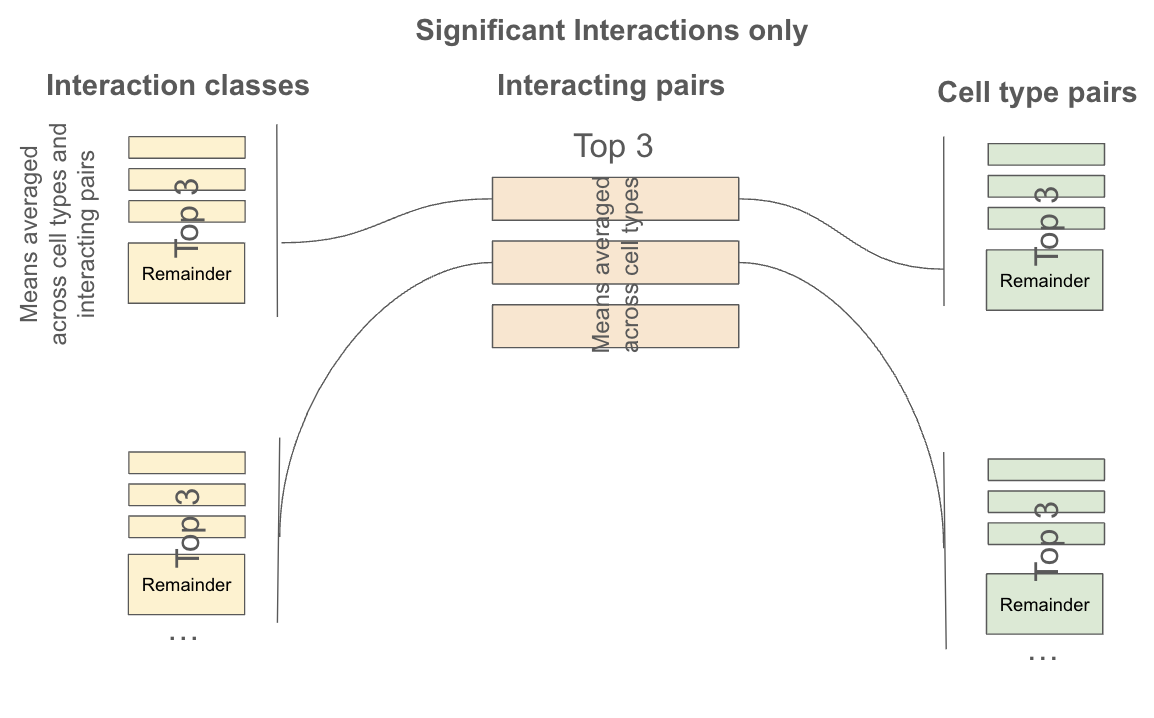
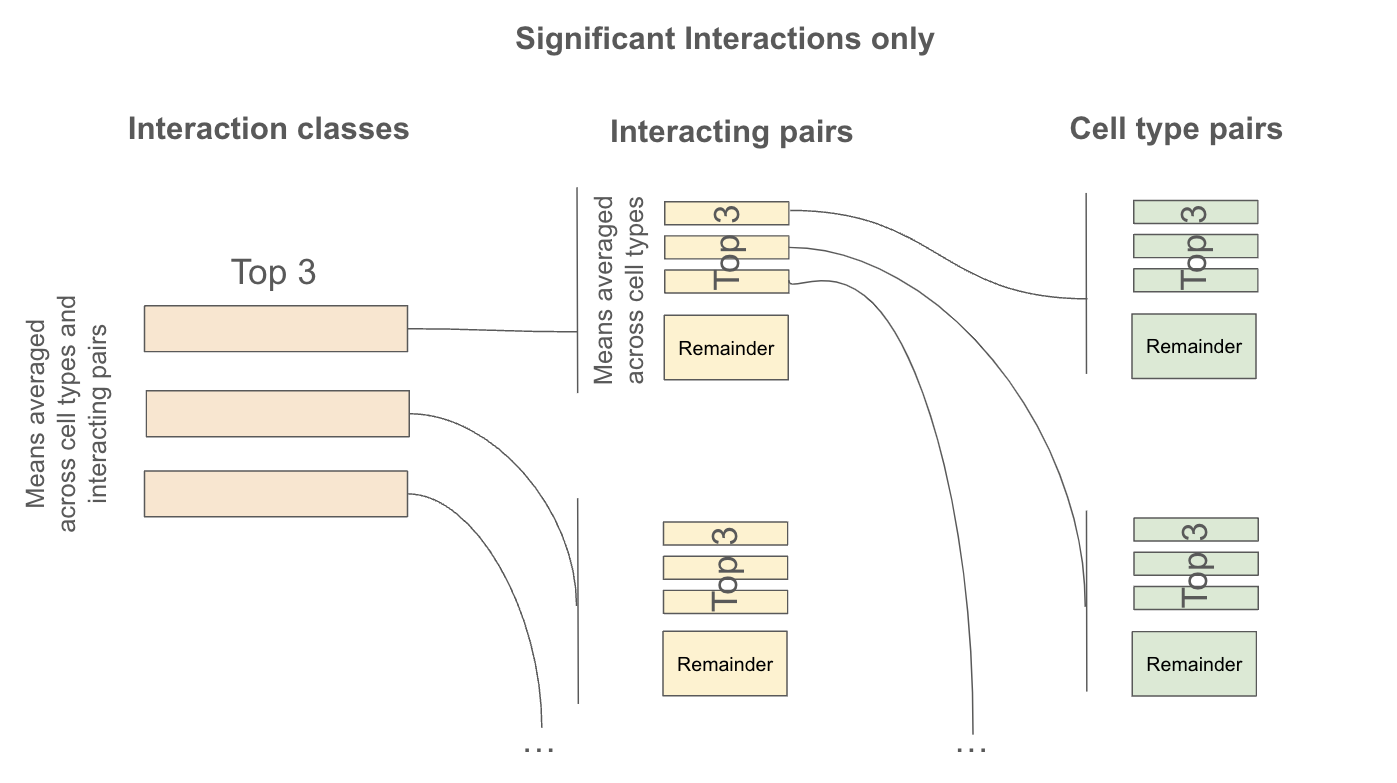
Provided help buttons for all plots, indicating what the plot shows and what data it uses

diff --git a/public/viz.html b/public/viz.html
@@ -164,6 +164,10 @@ function refreshCCISummaryChordPlots() {
                     <button id="ctcomp_save_button" style="text-transform: none;" class="btn-floating waves-effect waves-light btn-small z-depth-2" onclick="downloadAsPDF('ctcomp','ctcomp_title','ctcomp_header')">
                         <i class="material-icons left tooltipped" data-tooltip="Download plot in PDF format">file_download</i>
                     </button>
+                      <span style="text-transform: none;" class="btn-floating waves-effect waves-light btn-small z-depth-2">
+                        <i id="celltype_composition_help" class="material-icons left tooltipped"
+                           data-tooltip="The plot shows the mapping between different cell type characteristics specified in the file under the configuration key: 'celltype_composition'">info_outline</i>
+                      </span>
                       <div id="ctcomp_header" hidden></div>
                       <div id="ctcomp" style="width:1500px;height:700px"></div>
                   </div>
@@ -179,6 +183,10 @@ function refreshCCISummaryChordPlots() {
                     <button id="spme_save_button" style="text-transform: none;" class="btn-floating waves-effect waves-light btn-small z-depth-2" onclick="downloadAsPDF('spme','spme_title','spme_header')">
                         <i class="material-icons left tooltipped" data-tooltip="Download plot in PDF format">file_download</i>
                     </button>
+                      <span style="text-transform: none;" class="btn-floating waves-effect waves-light btn-small z-depth-2">
+                        <i id="spme_help" class="material-icons left tooltipped"
+                           data-tooltip="The plot shows the mapping between cell types and microenvironments specified in the file under the configuration key: 'microenvironments'">info_outline</i>
+                      </span>
                     <div id="spme_header" hidden>Cell Type - Microenvironment</div>
                       <div id="spme" style="width:800px"></div>
                   </div>
@@ -280,6 +288,10 @@ function refreshCCISummaryChordPlots() {
                           <button style="text-transform: none;" class="btn-floating waves-effect waves-light btn-small z-depth-2" onclick="downloadAsPDF('sge','sge_title','sge_header')">
                              <i class="material-icons left tooltipped" data-tooltip="Download plot in PDF format">file_download</i>
                           </button>
+                          <span style="text-transform: none;" class="btn-floating waves-effect waves-light btn-small z-depth-2">
+                            <i id="sge_help" class="material-icons left tooltipped"
+                               data-tooltip="The plot shows mean expressions of the genes/complexes and cell types/microenvironments selected in the filter. The data comes from files specified in the configuration keys: 'deconvoluted_result', 'deconvoluted_percents' and 'microenvironments'.">info_outline</i>
+                          </span>
                           <div id="sge_header" hidden></div>
                             <div id="sge" style="width:1000px"></div>
                         </div>
@@ -302,12 +314,19 @@ function refreshCCISummaryChordPlots() {
                     </button>
                     <span style="text-transform: none;" class="btn-floating waves-effect waves-light btn-small z-depth-2">
                         <i id="specificity_ataglance_help" class="material-icons left tooltipped"
-                           data-tooltip="Mouse over a node in the plot below to see the averaged means for each of the edges connected to that node.">info_outline</i>
+                           data-tooltip="This plot helps to highlight interactions that may be specific to (groups of) cell type pairs.
+                           <p />It shows the top 3 interaction classes (ICs, by average expression across all cell types and interacting pairs),
+                           <br>and for each IC the top 3 interacting pairs plus the reminder (IPs, by average expression across all cell types),
+                           <br>and for each IP the top 3 cell types plus the reminder.
+                           <br>The edge thickness corresponds to the mean expression (in the case of the reminders, aggregated across all the
+                           constituents).
+                           <br>The data comes from files specified in the configuration keys: 'analysis_means' and 'relevant_interactions'.
+                           <p />Mouse over a node in the plot below to see the averaged means for each of the edges connected to that node.">info_outline</i>
                     </span>
                       <div id="cci_specificity_header" class="center"><img src="img/cci_specificity_legend.png" width="50%" height="50%" alt="Cell-cell Communication Specificity - At at glance - legend"></img></div>
-                      <div id="cci_specificity_legend" class="center">Plot interpretation guidance:
+                      <div id="cci_specificity_legend" class="center">Note:
                           Higher averaged means across fewer interacting/cell type pairs may be indicative of a more
-                      specific activity of the corresponding interaction class/pathway.</div>
+                     specific activity of the corresponding interacting pair.</div>
                       <div id="cci_specificity" style="width:2000px;height:1200px"></div>
                   </div>
                 </div>
@@ -398,6 +417,12 @@ function refreshCCISummaryChordPlots() {
                         <button style="text-transform: none;" class="btn-floating waves-effect waves-light btn-small z-depth-2" onclick="downloadAsPDF('cci0','cci_summary_title','cci0_header')">
                            <i class="material-icons left tooltipped" data-tooltip="Download plot in PDF format">file_download</i>
                         </button>
+                          <span style="text-transform: none;" class="btn-floating waves-effect waves-light btn-small z-depth-2">
+                            <i id="cci_summary_all_celltypes_help" class="material-icons left tooltipped"
+                           data-tooltip="The plot shows the number of significant interactions between each cell type pair.
+                           <br>The data comes from files specified in the configuration keys: 'analysis_means', 'relevant_interactions'
+                           (and 'microenvironments' and 'interaction_scores' if applicable)">info_outline</i>
+                          </span>
                         <div id="cci0_header" hidden></div>
                           <div id="cci0" style="width:1000px"></div>
                           <div id="cci0_chord" style="width:1000px" hidden></div>
@@ -415,6 +440,12 @@ function refreshCCISummaryChordPlots() {
                         <button style="text-transform: none;" class="btn-floating waves-effect waves-light btn-small z-depth-2" onclick="downloadAsPDF('cci1','cci_summary_title','cci1_header')">
                            <i class="material-icons left tooltipped" data-tooltip="Download plot in PDF format">file_download</i>
                         </button>
+                          <span style="text-transform: none;" class="btn-floating waves-effect waves-light btn-small z-depth-2">
+                            <i id="cci_summary_me1_help" class="material-icons left tooltipped"
+                           data-tooltip="The plot shows the number of significant interactions between each cell type pair in this microenviroment.
+                           <br>The data comes from files specified in the configuration keys: 'analysis_means', 'relevant_interactions', 'microenvironments'
+                           (and 'interaction_scores' if applicable)">info_outline</i>
+                          </span>
                         <div id="cci1_header" hidden></div>
                           <div id="cci1" style="width:400px"></div>
                           <div id="cci1_chord" style="width:400px" hidden></div>
@@ -430,6 +461,12 @@ function refreshCCISummaryChordPlots() {
                         <button style="text-transform: none;" class="btn-floating waves-effect waves-light btn-small z-depth-2" onclick="downloadAsPDF('cci2','cci_summary_title','cci2_header')">
                            <i class="material-icons left tooltipped" data-tooltip="Download plot in PDF format">file_download</i>
                         </button>
+                          <span style="text-transform: none;" class="btn-floating waves-effect waves-light btn-small z-depth-2">
+                            <i id="cci_summary_me2_help" class="material-icons left tooltipped"
+                           data-tooltip="The plot shows the number of significant interactions between each cell type pair in this microenviroment.
+                           <br>The data comes from files specified in the configuration keys: 'analysis_means', 'relevant_interactions', 'microenvironments'
+                           (and 'interaction_scores' if applicable)">info_outline</i>
+                          </span>
                         <div id="cci2_header" hidden></div>
                           <div id="cci2" style="width:400px"></div>
                           <div id="cci2_chord" style="width:400px" hidden></div>
@@ -445,6 +482,12 @@ function refreshCCISummaryChordPlots() {
                         <button style="text-transform: none;" class="btn-floating waves-effect waves-light btn-small z-depth-2" onclick="downloadAsPDF('cci3','cci_summary_title','cci3_header')">
                            <i class="material-icons left tooltipped" data-tooltip="Download plot in PDF format">file_download</i>
                         </button>
+                          <span style="text-transform: none;" class="btn-floating waves-effect waves-light btn-small z-depth-2">
+                            <i id="cci_summary_me3_help" class="material-icons left tooltipped"
+                           data-tooltip="The plot shows the number of significant interactions between each cell type pair in this microenviroment.
+                           <br>The data comes from files specified in the configuration keys: 'analysis_means', 'relevant_interactions', 'microenvironments'
+                           (and 'interaction_scores' if applicable)">info_outline</i>
+                          </span>
                         <div id="cci3_header" hidden></div>
                           <div id="cci3" style="width:400px"></div>
                           <div id="cci3_chord" style="width:400px" hidden></div>
@@ -463,6 +506,12 @@ function refreshCCISummaryChordPlots() {
                         <button style="text-transform: none;" class="btn-floating waves-effect waves-light btn-small z-depth-2" onclick="downloadAsPDF('cci4','cci_summary_title','cci4_header')">
                            <i class="material-icons left tooltipped" data-tooltip="Download plot in PDF format">file_download</i>
                         </button>
+                          <span style="text-transform: none;" class="btn-floating waves-effect waves-light btn-small z-depth-2">
+                            <i id="cci_summary_me4_help" class="material-icons left tooltipped"
+                           data-tooltip="The plot shows the number of significant interactions between each cell type pair in this microenviroment.
+                           <br>The data comes from files specified in the configuration keys: 'analysis_means', 'relevant_interactions', 'microenvironments'
+                           (and 'interaction_scores' if applicable)">info_outline</i>
+                          </span>
                         <div id="cci4_header" hidden></div>
                           <div id="cci4" style="width:400px"></div>
                           <div id="cci4_chord" style="width:400px" hidden></div>
@@ -478,6 +527,12 @@ function refreshCCISummaryChordPlots() {
                         <button style="text-transform: none;" class="btn-floating waves-effect waves-light btn-small z-depth-2" onclick="downloadAsPDF('cci5','cci_summary_title','cci5_header')">
                            <i class="material-icons left tooltipped" data-tooltip="Download plot in PDF format">file_download</i>
                         </button>
+                          <span style="text-transform: none;" class="btn-floating waves-effect waves-light btn-small z-depth-2">
+                            <i id="cci_summary_me5_help" class="material-icons left tooltipped"
+                           data-tooltip="The plot shows the number of significant interactions between each cell type pair in this microenviroment.
+                           <br>The data comes from files specified in the configuration keys: 'analysis_means', 'relevant_interactions', 'microenvironments'
+                           (and 'interaction_scores' if applicable)">info_outline</i>
+                          </span>
                         <div id="cci5_header" hidden></div>
                           <div id="cci5" style="width:400px"></div>
                           <div id="cci5_chord" style="width:400px" hidden></div>
@@ -493,6 +548,12 @@ function refreshCCISummaryChordPlots() {
                         <button style="text-transform: none;" class="btn-floating waves-effect waves-light btn-small z-depth-2" onclick="downloadAsPDF('cci6','cci_summary_title','cci6_header')">
                            <i class="material-icons left tooltipped" data-tooltip="Download plot in PDF format">file_download</i>
                         </button>
+                          <span style="text-transform: none;" class="btn-floating waves-effect waves-light btn-small z-depth-2">
+                            <i id="cci_summary_me6_help" class="material-icons left tooltipped"
+                           data-tooltip="The plot shows the number of significant interactions between each cell type pair in this microenviroment.
+                           <br>The data comes from files specified in the configuration keys: 'analysis_means', 'relevant_interactions', 'microenvironments'
+                           (and 'interaction_scores' if applicable)">info_outline</i>
+                          </span>
                         <div id="cci6_header" hidden></div>
                           <div id="cci6" style="width:400px"></div>
                           <div id="cci6_chord" style="width:400px" hidden></div>
@@ -510,6 +571,12 @@ function refreshCCISummaryChordPlots() {
                         <button style="text-transform: none;" class="btn-floating waves-effect waves-light btn-small z-depth-2" onclick="downloadAsPDF('cci7','cci_summary_title','cci7_header')">
                            <i class="material-icons left tooltipped" data-tooltip="Download plot in PDF format">file_download</i>
                         </button>
+                          <span style="text-transform: none;" class="btn-floating waves-effect waves-light btn-small z-depth-2">
+                            <i id="cci_summary_me7_help" class="material-icons left tooltipped"
+                           data-tooltip="The plot shows the number of significant interactions between each cell type pair in this microenviroment.
+                           <br>The data comes from files specified in the configuration keys: 'analysis_means', 'relevant_interactions', 'microenvironments'
+                           (and 'interaction_scores' if applicable)">info_outline</i>
+                          </span>
                         <div id="cci7_header" hidden></div>
                           <div id="cci7" style="width:400px"></div>
                           <div id="cci7_chord" style="width:400px" hidden></div>
@@ -525,6 +592,12 @@ function refreshCCISummaryChordPlots() {
                         <button style="text-transform: none;" class="btn-floating waves-effect waves-light btn-small z-depth-2" onclick="downloadAsPDF('cci8','cci_summary_title','cci8_header')">
                            <i class="material-icons left tooltipped" data-tooltip="Download plot in PDF format">file_download</i>
                         </button>
+                          <span style="text-transform: none;" class="btn-floating waves-effect waves-light btn-small z-depth-2">
+                            <i id="cci_summary_me8_help" class="material-icons left tooltipped"
+                           data-tooltip="The plot shows the number of significant interactions between each cell type pair in this microenviroment.
+                           <br>The data comes from files specified in the configuration keys: 'analysis_means', 'relevant_interactions', 'microenvironments'
+                           (and 'interaction_scores' if applicable)">info_outline</i>
+                          </span>
                         <div id="cci8_header" hidden></div>
                           <div id="cci8" style="width:400px"></div>
                           <div id="cci8_chord" style="width:400px" hidden></div>
@@ -540,6 +613,12 @@ function refreshCCISummaryChordPlots() {
                         <button style="text-transform: none;" class="btn-floating waves-effect waves-light btn-small z-depth-2" onclick="downloadAsPDF('cci9','cci_summary_title','cci9_header')">
                            <i class="material-icons left tooltipped" data-tooltip="Download plot in PDF format">file_download</i>
                         </button>
+                          <span style="text-transform: none;" class="btn-floating waves-effect waves-light btn-small z-depth-2">
+                            <i id="cci_summary_me9_help" class="material-icons left tooltipped"
+                           data-tooltip="The plot shows the number of significant interactions between each cell type pair in this microenviroment.
+                           <br>The data comes from files specified in the configuration keys: 'analysis_means', 'relevant_interactions', 'microenvironments'
+                           (and 'interaction_scores' if applicable)">info_outline</i>
+                          </span>
                         <div id="cci9_header" hidden></div>
                           <div id="cci9" style="width:400px"></div>
                           <div id="cci9_chord" style="width:400px" hidden></div>
@@ -685,7 +764,11 @@ function refreshCCISummaryChordPlots() {
                            <i class="material-icons left tooltipped" data-tooltip="Download plot in PDF format">file_download</i>
                       </button>
                      <span style="text-transform: none;" class="btn-floating waves-effect waves-light btn-small z-depth-2">
-                           <i id="interacting_pair_help" class="material-icons left tooltipped" data-tooltip="">info_outline</i>
+                           <i id="interacting_pair_help" class="material-icons left tooltipped" data-tooltip=
+                                   "This plot shows significant interactions across the selected cell type/interacting pairs.
+                                   <br>The data comes from files specified in the configuration keys: 'analysis_means', 'relevant_interactions'
+                           (and 'microenvironments', 'interaction_scores' and 'pvalues' if applicable respectively)<p />"
+                           >info_outline</i>
                       </span>
                       <div style="padding-top: 20px;">
                           <span class="black-text text-lighten+10 switch-label">Show: &nbsp;&nbsp;&nbsp;&nbsp;&nbsp;&nbsp;&nbsp;&nbsp;&nbsp;&nbsp;&nbsp;&nbsp;&nbsp;&nbsp;&nbsp;&nbsp;&nbsp;&nbsp;&nbsp;&nbsp;&nbsp;&nbsp;&nbsp;&nbsp;&nbsp;&nbsp;&nbsp;&nbsp;&nbsp;&nbsp;&nbsp;&nbsp;&nbsp;&nbsp;</span>

diff --git a/public/js/cpdbviz.js b/public/js/cpdbviz.js
@@ -2086,13 +2086,14 @@ function generateCellCellInteractionSearchPlot(data, storeTokens, interacting_pa
         .attr("font-family", "Arial")
         .text(title);
 
-    var ip_info = " on an interaction pair on Y axis for more information.";
+    var ip_info = " on an interaction pair on Y axis and on each circle in the plot for more information.";
     if (interacting_pair2properties_html != undefined) {
         ip_info = "Click" + ip_info;
     } else {
         ip_info = "Mouse over " + ip_info;
     }
-    $("#interacting_pair_help").attr("data-tooltip", ip_info);
+    var ip_help_content = $("#interacting_pair_help").attr("data-tooltip");
+    $("#interacting_pair_help").attr("data-tooltip", ip_help_content + ip_info);
 
   var yAxisLength = height - top_yMargin - bottom_yMargin,
       xAxisLength = width - xMargin - 350;
